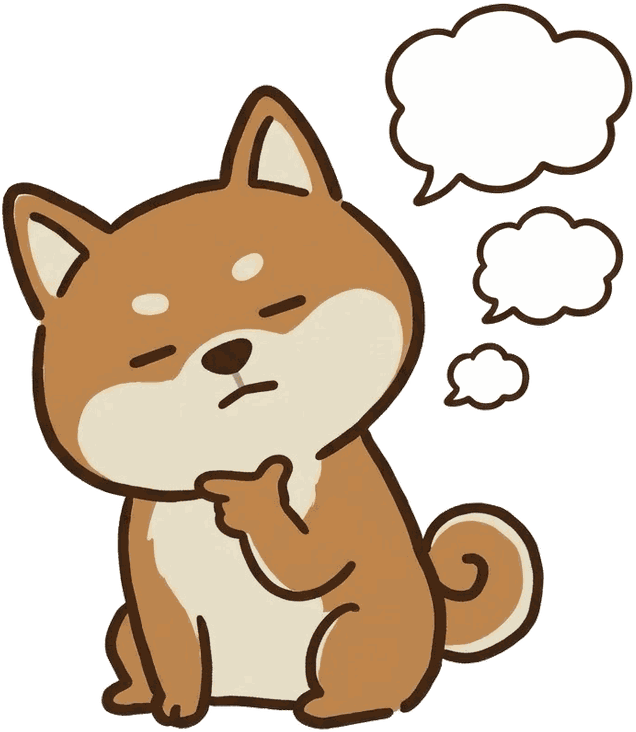
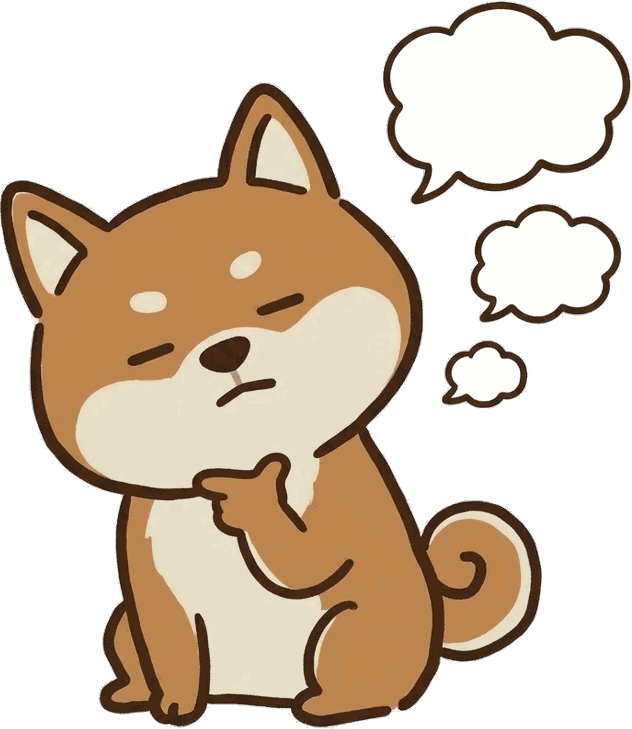
Replace partner artwork with the renamed set
Partner ability IDs now follow the updated image names: endless,
connoisseur, asking (monologue unchanged). Images optimized with
tools/optimize_images.py.

diff --git a/skills/my-ai-title/scripts/aititle/selection.py b/skills/my-ai-title/scripts/aititle/selection.py
@@ -140,9 +140,9 @@ ABILITY_RULES = {
     "flash": at_most("intervention.task_minutes_median", 10),
     "silence": at_least("intervention.short_prompt_share", 0.70),
     # partner
-    "thousandnights": at_least("intervention.turns_per_session_median", 20),
-    "aesthetic": judged("aesthetic"),
-    "question": judged("question"),
+    "endless": at_least("intervention.turns_per_session_median", 20),
+    "connoisseur": judged("connoisseur"),
+    "asking": judged("asking"),
     "monologue": judged("monologue"),
     # explorer
     "curious": at_least("breadth.distinct_tools", 12),
@@ -177,8 +177,8 @@ JUDGMENTS = {
     "lucid": "Tasks keep finishing without rework caused by missing information (architect).",
     "inquiry": "Many tasks hand over the symptom and let the AI investigate instead of assuming a cause (architect).",
     "precision": "Requests usually state completion criteria (sniper).",
-    "aesthetic": "Many sessions compare several options before deciding (partner).",
-    "question": "Many tasks start by letting the AI ask questions first (partner).",
+    "connoisseur": "Many sessions compare several options before deciding (partner).",
+    "asking": "Many tasks start by letting the AI ask questions first (partner).",
     "monologue": "The human often finds the answer while explaining to the AI (partner).",
     "strategist": "Delegation style changes with the nature of the task (conductor).",
     "afterthought": "Rework caused by details added after the request (context quirk).",

diff --git a/tests/fixtures/make_fixtures.py b/tests/fixtures/make_fixtures.py
@@ -388,7 +388,7 @@ def scenario_partner() -> None:
         logs.append(lg)
     _write_scenario("partner", logs,
                     {"context": 3, "delegation": 3, "verification": 3, "autonomy": 3, "efficiency": 3, "systems": 3},
-                    {"type": "partner", "ability_id": "thousandnights", "rare": False, "quirk_id": "marathon"},
+                    {"type": "partner", "ability_id": "endless", "rare": False, "quirk_id": "marathon"},
                     judgments={"partner_adopted": "yes"})
 
 

diff --git a/skills/my-ai-title/references/types.md b/skills/my-ai-title/references/types.md
@@ -242,9 +242,9 @@
 | sniper | precision | 精密射撃 | Precision Shot | One millimeter to the right. | A tenth of a millimeter to the right. | Almost every request comes with a clear goal. The AI can't get lost. |
 | sniper | flash | 早撃ち | Quick Draw | Already done. Why? | It was done before you asked. | From request to done, simply fast. |
 | sniper | silence | 無言の圧 | Silent Pressure | …I only say it once. | …… | Short instructions that land anyway. The AI reads the room. |
-| partner | thousandnights | 無限壁打ち | Endless Sparring | Hey, can I run something by you? | I'm not done talking yet. | Once the talk starts, it keeps going. The longer the back-and-forth, the better the answer. |
-| partner | aesthetic | 比較検討 | Weighing Options | A or B, what do you think? | Neither A nor B. It's C. | Never settles on one idea. Lines up a few, then chooses. |
-| partner | question | 逆質問 | Questions First | Go ahead, ask me first. | By the time the questions end, the answer is there. | Before starting, lets the AI ask questions to sort out the thinking. |
+| partner | endless | 無限壁打ち | Endless Sparring | Hey, can I run something by you? | I'm not done talking yet. | Once the talk starts, it keeps going. The longer the back-and-forth, the better the answer. |
+| partner | connoisseur | 比較検討 | Weighing Options | A or B, what do you think? | Neither A nor B. It's C. | Never settles on one idea. Lines up a few, then chooses. |
+| partner | asking | 逆質問 | Questions First | Go ahead, ask me first. | By the time the questions end, the answer is there. | Before starting, lets the AI ask questions to sort out the thinking. |
 | partner | monologue | ひとり会議 | Thinking Out Loud | …Oh, saying it out loud helped. | I knew before I said it. | Explaining things to the AI often turns up the answer midway. |
 | explorer | curious | 好奇心 | Curiosity | Could AI handle this too? | Still haven't found anything AI can't do. | Hands all kinds of things to the AI, just to see. |
 | explorer | risingstar | 急成長 | Growth Spurt | Not the same as last month. | Already beating last week's self. | {axis} has jumped since last time. Growing fastest right now. |
